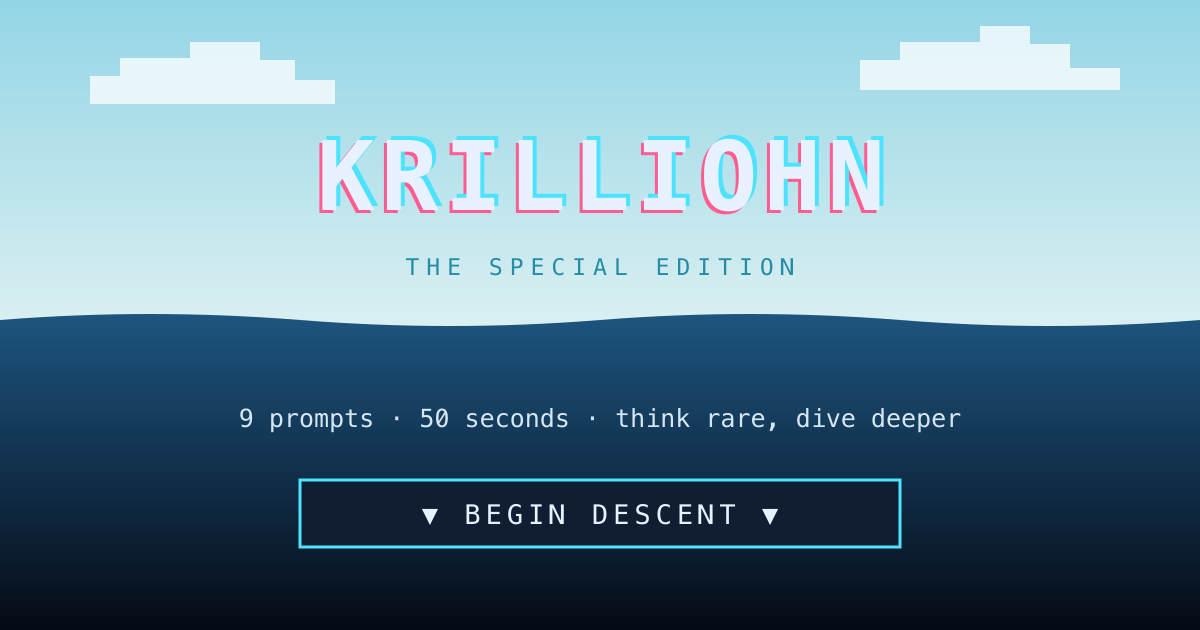
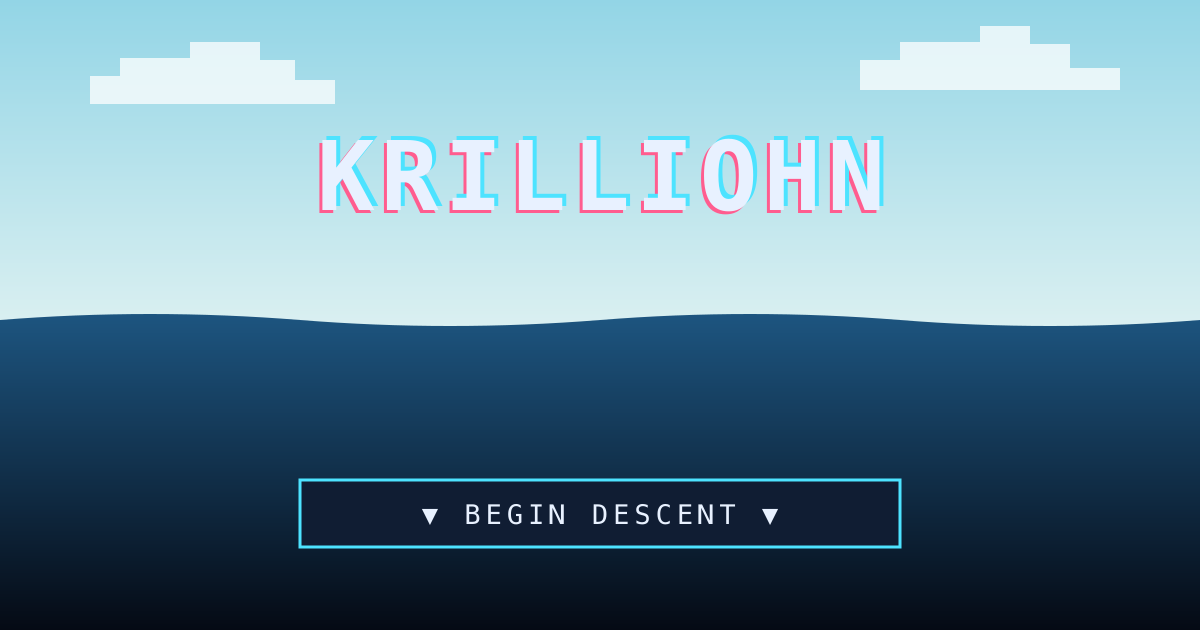
Confirm corrected answers first; trim the title screen
- Like the original game: a guess that only matches after correction
  fills the listed answer into the box ("typed" → "Listed answer",
  submit again to confirm · or edit); return again scores it, editing
  cancels it. Case/accents/punctuation/spacing count as exact.
  Restores the "Answer corrections" setting.
- Title screen: remove "SPECIAL EDITION · FOR GRACE", "THE SPECIAL
  EDITION" and the prompts/seconds line (also from the link preview)
- Audit covers the correction, confirmation and edit-to-cancel

diff --git a/public/style.css b/public/style.css
@@ -219,3 +219,6 @@ body[data-ending="yes"] .result-score span{color:var(--gold)}
 @media(min-width:700px){.ending-yes{--letter-width:min(680px,calc(100vw - var(--stage-rail)*2 - 40px));margin-left:calc((448px - var(--letter-width))/2);margin-right:calc((448px - var(--letter-width))/2);padding:30px 40px 28px}}
 /* The wide letter box leaves no room for the floating buddy below 1200px. */
 @media(max-width:1199px){body[data-phase="done"][data-ending="yes"] .mascot{display:none}}
+/* Correction preview, as in the original game: what was typed → the listed answer. */
+.answer-status.correction{color:var(--foam)}.answer-status.correction b{color:var(--cyan);font-weight:400}
+.answer-status.correction{left:50%;right:auto;transform:translateX(-50%);width:max-content;max-width:100%}

diff --git a/README.md b/README.md
@@ -42,6 +42,7 @@ All scoring is in [`public/matcher.mjs`](public/matcher.mjs):
   2. Next comes a typo match on a whole answer: 1 edit from 4 letters, 2 from 8, 3 from 13. Swapped letters count as one edit.
   3. Last comes word overlap. Any word of an answer counts, with typos, and split or joined words like "heungmin" count too. The most overlap wins.
 - **Ties** go to the easiest tier, so shared names like Lee, Kim, Green and Hugo score low.
+- **Corrections are confirmed first**, as in the original game. If a guess only matches after correction (an alias, a typo or part of an answer), the box fills in the listed answer, showing `"typed" → "Listed answer"`; pressing return again scores it, and editing cancels it. Differences in case, accents, punctuation or spacing count as exact. If the clock runs out, a pending or typo'd answer is scored as is. This can be turned off under **Settings → Answer corrections**.
 - **Wrong answers get another try**, as in the original game. An unlisted answer shows "no echo. try again", and a `not_accepted` answer shows the prompt's note. The JSON's `partial_credit` setting is no longer used.
 - **Final question:**
   - Repeated letters are collapsed first, then positive phrases like "why not" and "no doubt" are set aside.
